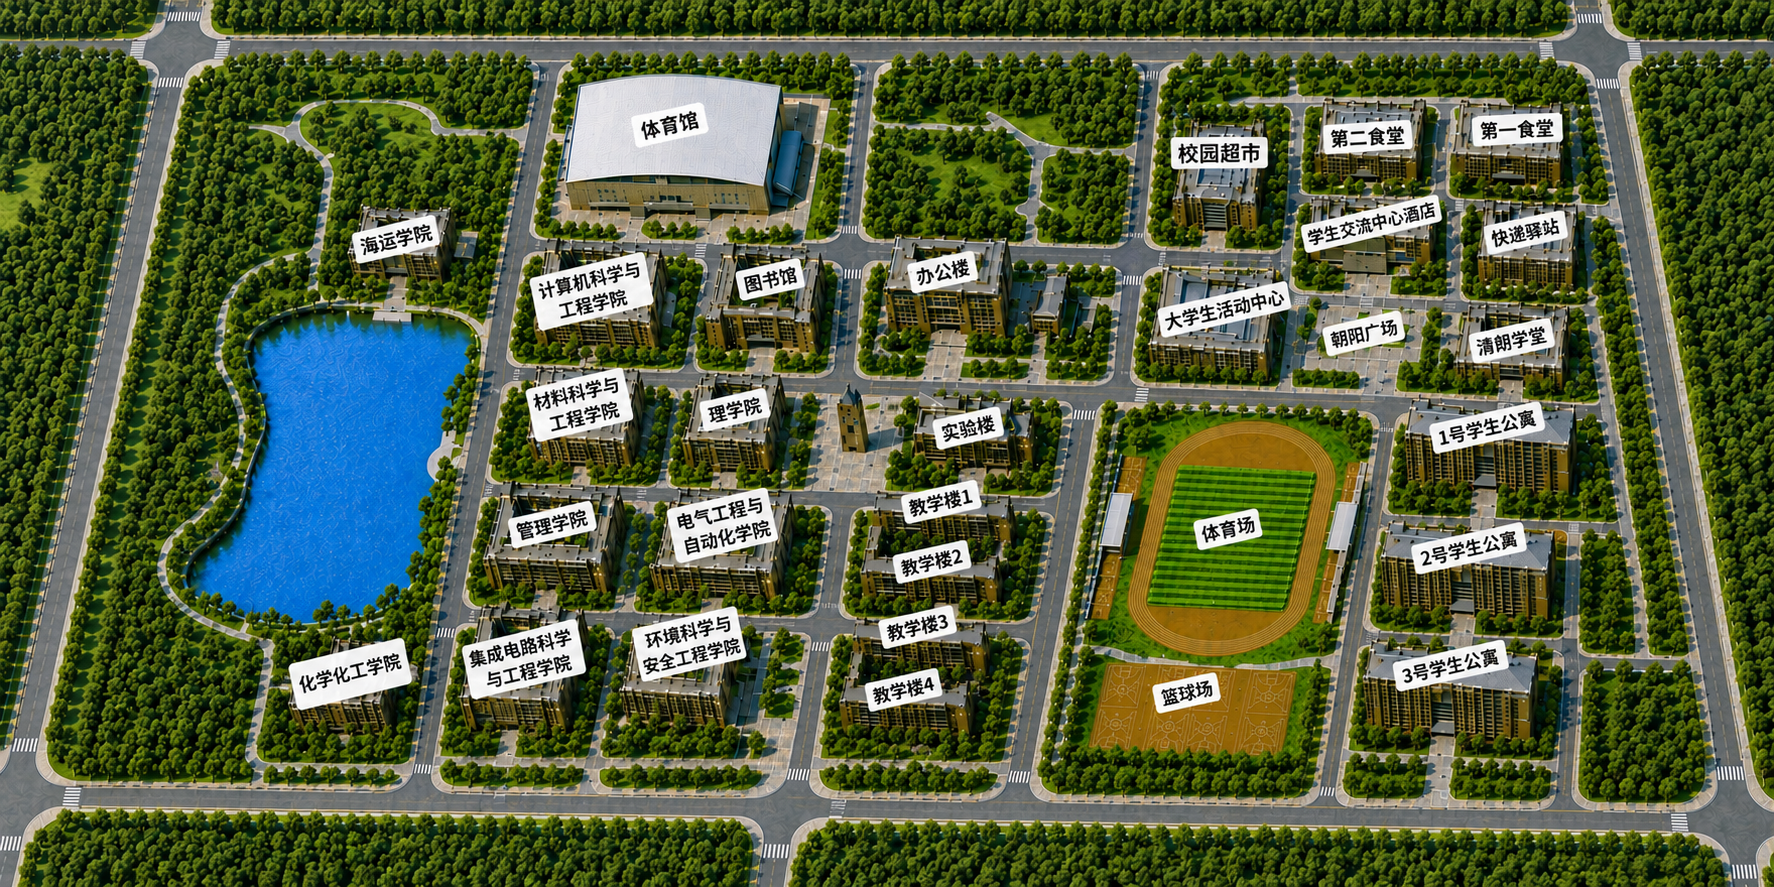
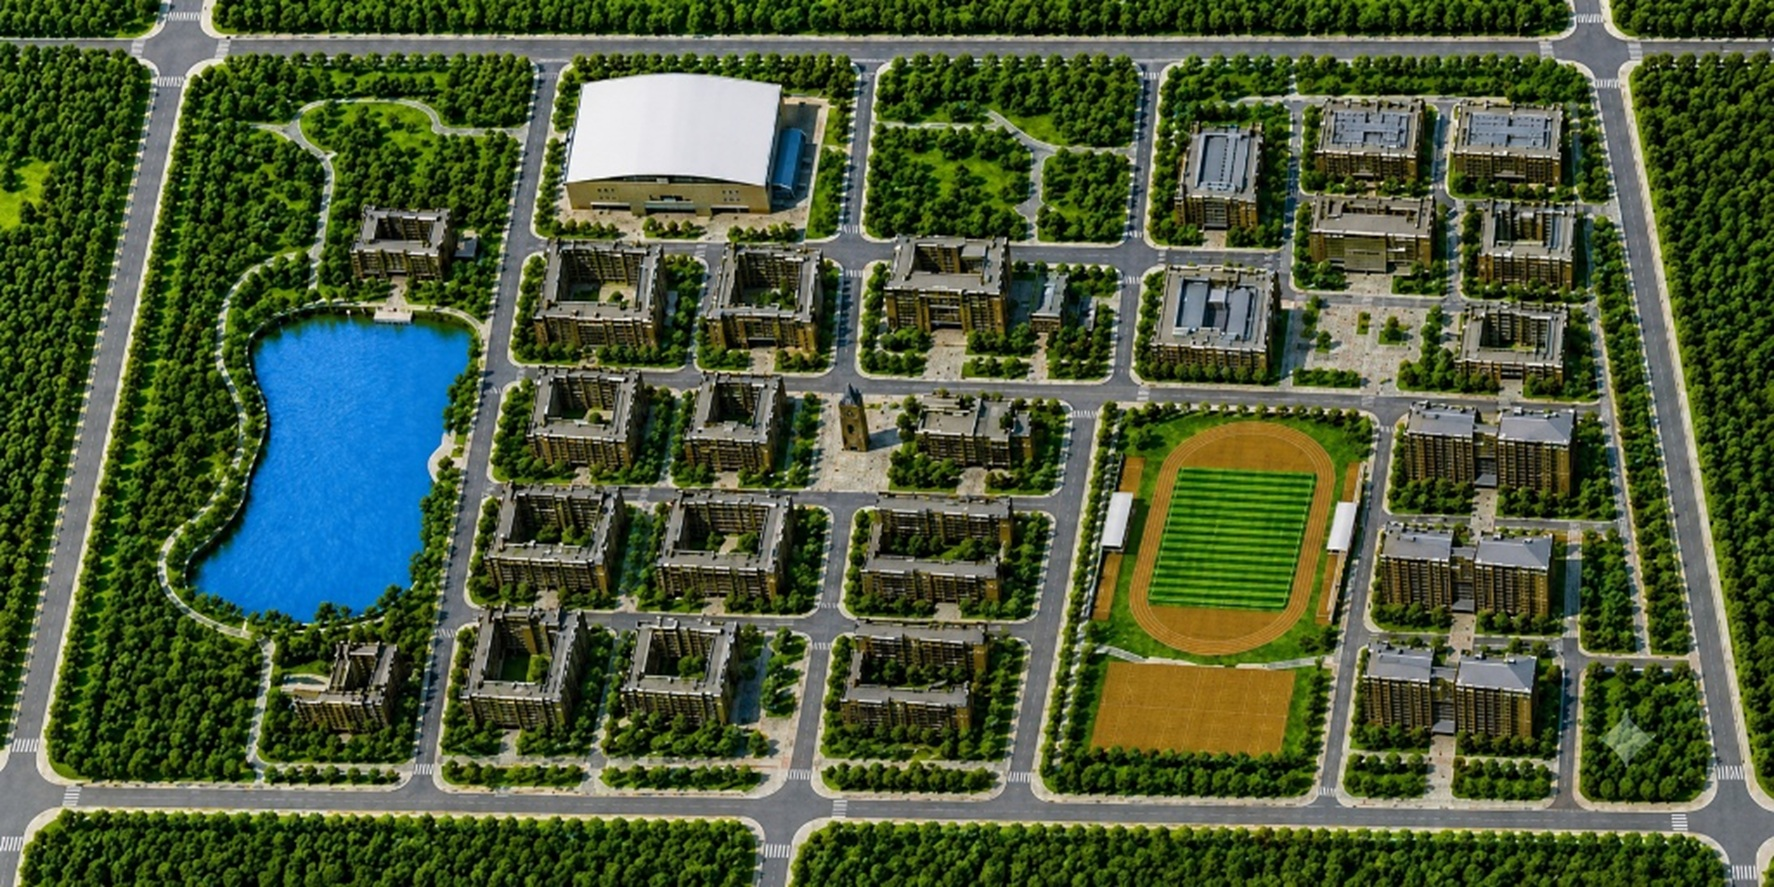
update temporarily 1

diff --git a/graphics/MapView.cpp b/graphics/MapView.cpp
@@ -79,25 +79,44 @@ void MapView::renderGraph() {
 void MapView::renderBuildings() {
     const auto& buildings = m_campusMap.getAllBuildings();
 
-    QFont font("Microsoft YaHei", 10, QFont::Bold); // 微软雅黑加粗
+    // 使用稍微小一点、粗体的无衬线字体，看起来更现代
+    QFont font("Microsoft YaHei", 9, QFont::Bold);
 
-    // 画建筑物 (Z-Value: 3.0)
     for (const auto& [id, b] : buildings) {
-        // ① 绘制建筑名字背景框 (为了让文字在复杂背景上更清晰)
+        // 1. 生成文字图元
         QGraphicsTextItem* textItem = m_scene->addText(QString::fromStdString(b.name), font);
-        textItem->setDefaultTextColor(Qt::darkBlue);
+        textItem->setDefaultTextColor(Qt::black); // 纯黑字
 
-        // 计算居中位置
-        qreal textX = b.ui_x - textItem->boundingRect().width() / 2.0;
-        qreal textY = b.ui_y - textItem->boundingRect().height() / 2.0;
-        textItem->setPos(textX, textY);
-        textItem->setZValue(3.1);
+        // 2. 计算完美的背景框大小（包含 Padding 内边距）
+        qreal paddingX = 6.0;
+        qreal paddingY = 2.0;
+        QRectF textRect = textItem->boundingRect();
+        qreal bgWidth = textRect.width() + paddingX * 2;
+        qreal bgHeight = textRect.height() + paddingY * 2;
 
-        // 半透明白色背景底框
-        QGraphicsRectItem* bgRect = m_scene->addRect(
-            textX, textY, textItem->boundingRect().width(), textItem->boundingRect().height(),
-            QPen(Qt::NoPen), QBrush(QColor(255, 255, 255, 200)));
-        bgRect->setZValue(3.0);
+        // 计算中心点坐标，使标签的中心对准 JSON 里的 ui_x 和 ui_y
+        qreal x = b.ui_x - bgWidth / 2.0;
+        qreal y = b.ui_y - bgHeight / 2.0;
+
+        // 3. 画一个漂亮的圆角矩形背景
+        QPainterPath path;
+        path.addRoundedRect(QRectF(x, y, bgWidth, bgHeight), 4.0, 4.0); // 4.0是圆角半径
+
+        QGraphicsPathItem* bgItem = m_scene->addPath(path,
+                                                     QPen(QColor(150, 150, 150, 180), 1),     // 浅灰色边框
+                                                     QBrush(QColor(255, 255, 255, 220)));     // 半透明白色背景
+
+        // 4. 设置层级
+        bgItem->setZValue(3.0);
+
+        // 文字需要稍微偏移一点来居中对齐到背景框里
+        textItem->setPos(x + paddingX, y + paddingY);
+        textItem->setZValue(3.1); // 文字在背景框之上
+
+        // 🌟【架构铺垫】：利用 setData 把建筑的真实 ID 塞进这两个图元的肚子里！
+        // 这样以后用户无论点到背景还是文字，我们都能直接提取出 ID，而不用去算坐标！
+        bgItem->setData(0, b.id);
+        textItem->setData(0, b.id);
     }
 }
 